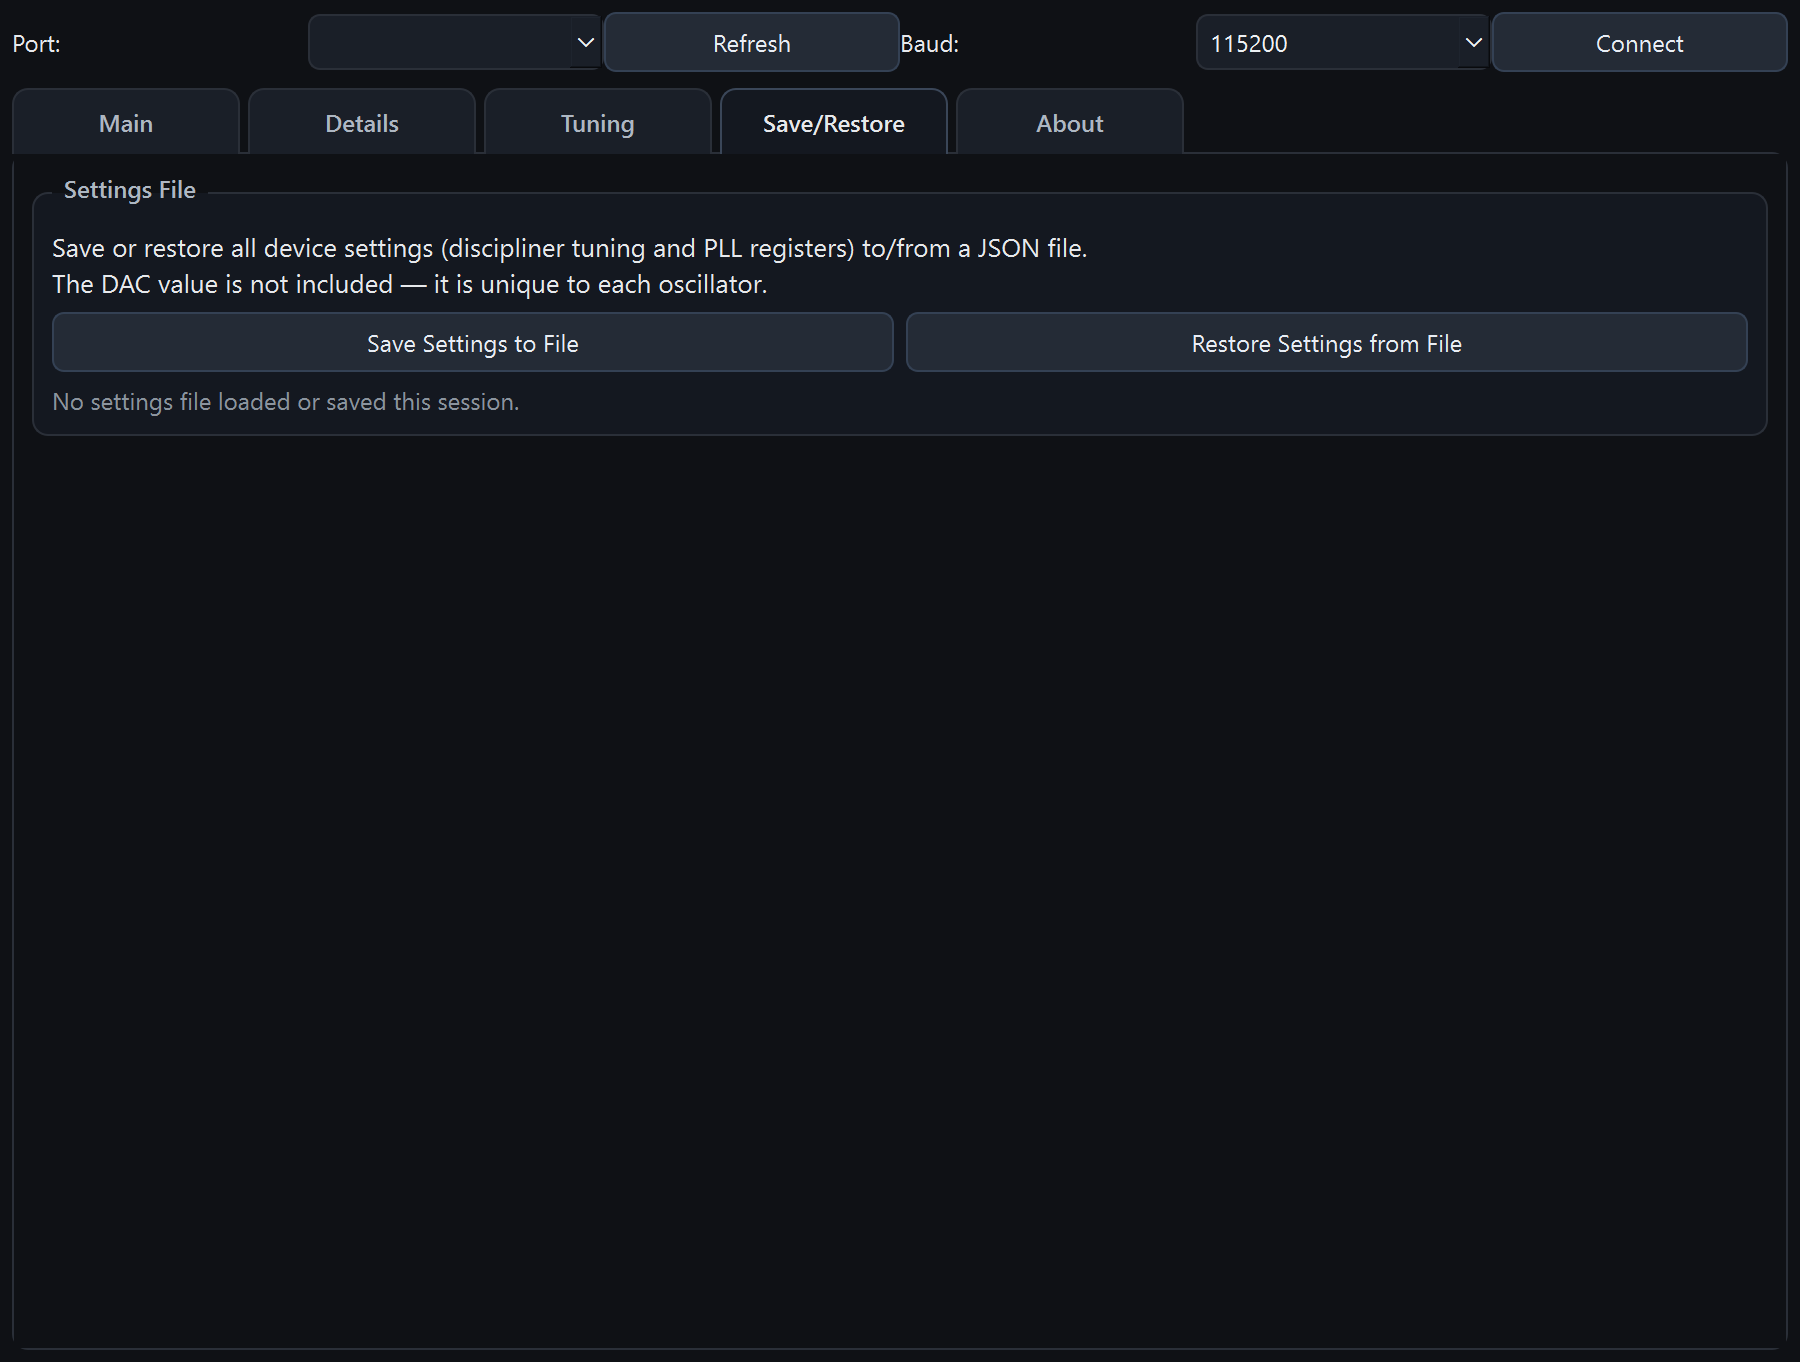
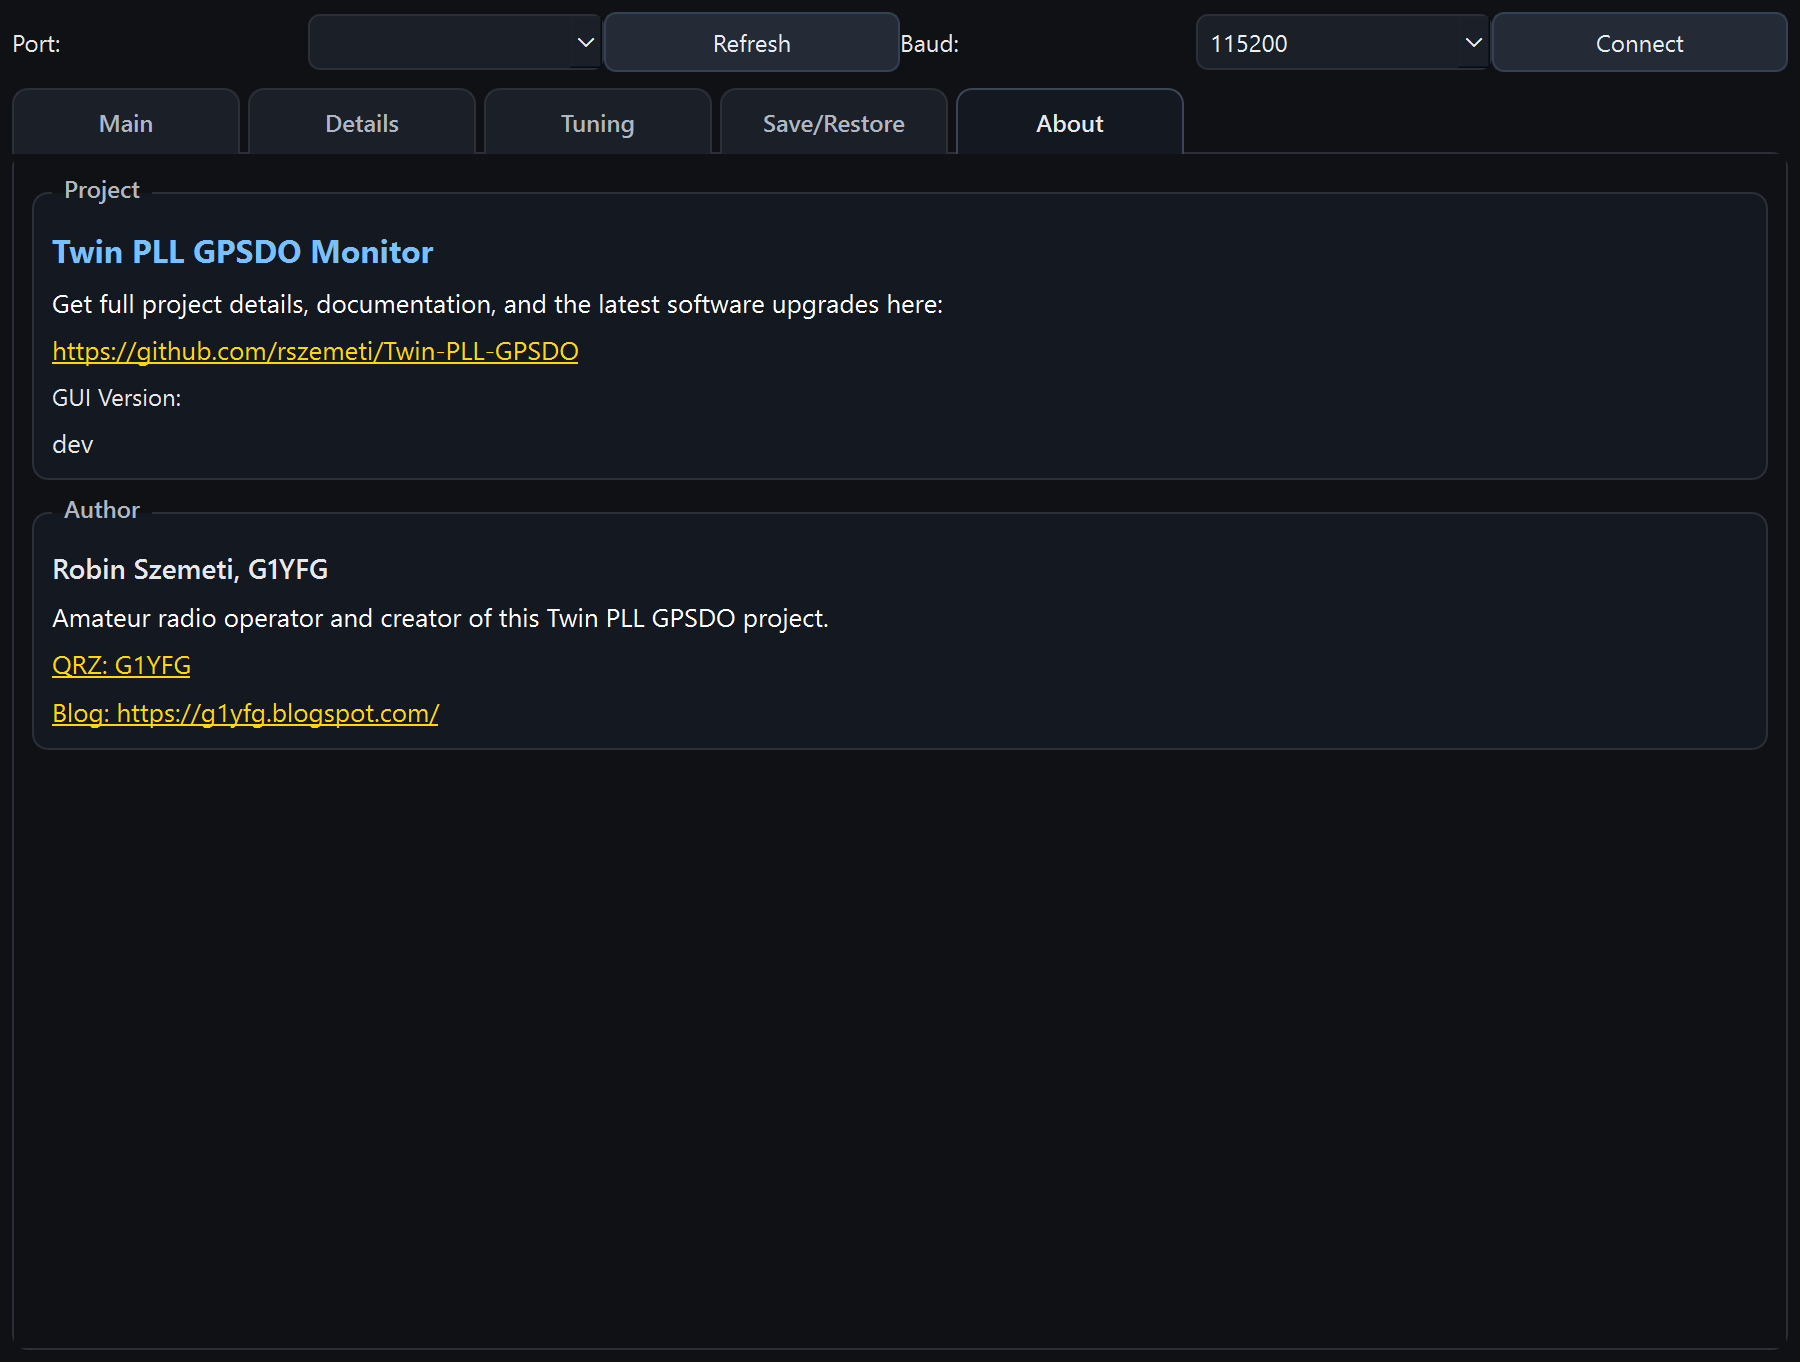
Fix About screenshot (was showing Save/Restore), add Save/Restore screenshot

diff --git a/monitor/tools/capture_manual_screens.py b/monitor/tools/capture_manual_screens.py
@@ -129,6 +129,10 @@ def main():
 
     tabs.setCurrentIndex(3)
     QApplication.processEvents()
+    _save_widget_png(main_window, OUT_DIR / '07-saverestore-live.png')
+
+    tabs.setCurrentIndex(4)
+    QApplication.processEvents()
     _save_widget_png(main_window, OUT_DIR / '03-about-live.png')
 
     pll_dialog = PLLConfigDialog(pll_name='PLL1', parent=main_window)
